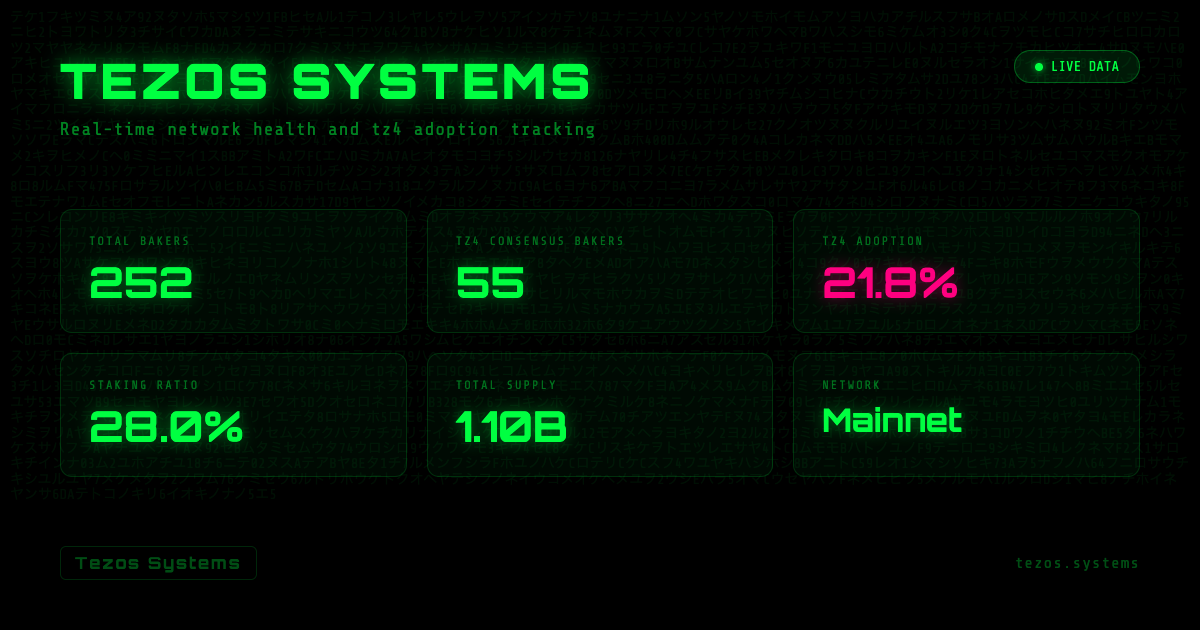
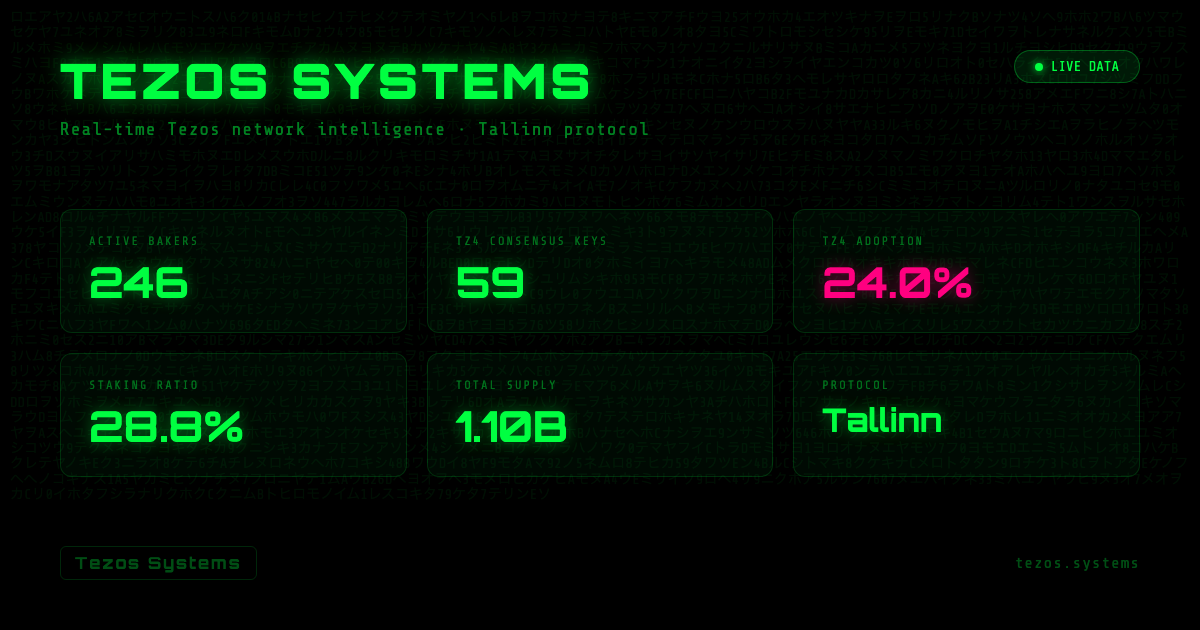
chore: refresh OG image with live stats + switch to Playwright
Stats: 246 bakers, 59 tz4 keys (24.0%), 28.8% staked, 1.10B supply
Script now uses Playwright instead of Puppeteer.
Subtitle updated to reference Tallinn protocol.

diff --git a/scripts/generate-og-image.js b/scripts/generate-og-image.js
@@ -2,11 +2,12 @@
 /**
  * Generate OG image for tezos.systems with live stats and matrix theme.
  * Run: node scripts/generate-og-image.js
- * Requires: puppeteer (npm i -g puppeteer or npx puppeteer)
+ * Uses Playwright (npx playwright) — no install needed.
  */
 
 const fs = require('fs');
 const path = require('path');
+const { execSync } = require('child_process');
 
 async function fetchStats() {
     const resp = await fetch('https://api.tzkt.io/v1/statistics/current');
@@ -19,26 +20,7 @@ async function fetchStats() {
     const stakingRatio = ((totalStaked / supply) * 100).toFixed(1);
     const bakers = stats.totalBakers || 0;
 
-    // Get issuance rate
-    let issuanceRate = '—';
-    try {
-        const cycleResp = await fetch('https://api.tzkt.io/v1/head');
-        const head = await cycleResp.json();
-        const cycle = head.cycle;
-        const issResp = await fetch(`https://api.tzkt.io/v1/statistics/current`);
-        // Approximate from adaptive issuance
-        // Use the protocol constants approach
-        const protoResp = await fetch('https://api.tzkt.io/v1/protocols/current');
-        const proto = await protoResp.json();
-        // Fallback: compute from recent blocks
-        const rewardsResp = await fetch(`https://api.tzkt.io/v1/rewards/split/${cycle - 1}?limit=0`);
-        const rewards = await rewardsResp.json();
-        // Simple estimate: total minted last cycle / supply * cycles_per_year
-        // ~5 cycles per day * 365 = 1825 cycles/year... actually ~2.83 days per cycle
-        // 365 / 2.83 ≈ 129 cycles per year
-    } catch(e) {}
-
-    // Get tz4 adoption via update_consensus_key operations (same as main site)
+    // Get tz4 adoption
     let tz4Bakers = 0;
     try {
         const bakersResp = await fetch('https://api.tzkt.io/v1/delegates?active=true&limit=10000&select=address');
@@ -60,18 +42,18 @@ async function fetchStats() {
     } catch(e) { console.error('tz4 fetch error:', e); }
 
     const tz4Pct = bakers > 0 ? ((tz4Bakers / bakers) * 100).toFixed(1) : '0';
-
-    // Format supply: 1095141013 XTZ -> "1.10B"
     const supplyB = (supply / 1e9).toFixed(2) + 'B';
 
-    return {
-        bakers,
-        tz4Bakers,
-        tz4Pct,
-        stakingRatio,
-        supply: supplyB,
-        supplyRaw: supply,
-    };
+    return { bakers, tz4Bakers, tz4Pct, stakingRatio, supply: supplyB };
+}
+
+function generateMatrixChars() {
+    const chars = 'アイウエオカキクケコサシスセソタチツテトナニヌネノハヒフヘホマミムメモヤユヨラリルレロワヲン0123456789ABCDEF';
+    let result = '';
+    for (let i = 0; i < 3000; i++) {
+        result += chars[Math.floor(Math.random() * chars.length)];
+    }
+    return result;
 }
 
 function buildHTML(stats) {
@@ -81,138 +63,87 @@ function buildHTML(stats) {
 <meta charset="utf-8">
 <style>
   @import url('https://fonts.googleapis.com/css2?family=Orbitron:wght@400;700;900&family=Share+Tech+Mono&display=swap');
-
   * { margin: 0; padding: 0; box-sizing: border-box; }
-
   body {
-    width: 1200px;
-    height: 630px;
-    background: #000;
-    color: #00ff41;
+    width: 1200px; height: 630px;
+    background: #000; color: #00ff41;
     font-family: 'Share Tech Mono', monospace;
-    overflow: hidden;
-    position: relative;
+    overflow: hidden; position: relative;
   }
-
   .bg-chars {
-    position: absolute;
-    top: 0; left: 0; right: 0; bottom: 0;
-    font-size: 14px;
-    line-height: 1.1;
+    position: absolute; top: 0; left: 0; right: 0; bottom: 0;
+    font-size: 14px; line-height: 1.1;
     color: rgba(0, 255, 65, 0.06);
-    overflow: hidden;
-    word-break: break-all;
-    padding: 10px;
-    z-index: 0;
+    overflow: hidden; word-break: break-all;
+    padding: 10px; z-index: 0;
   }
-
   .content {
-    position: relative;
-    z-index: 1;
-    padding: 50px 60px;
-    height: 100%;
-    display: flex;
-    flex-direction: column;
+    position: relative; z-index: 1;
+    padding: 50px 60px; height: 100%;
+    display: flex; flex-direction: column;
     justify-content: space-between;
   }
-
   .header {
-    display: flex;
-    justify-content: space-between;
+    display: flex; justify-content: space-between;
     align-items: flex-start;
   }
-
   .title {
     font-family: 'Orbitron', sans-serif;
-    font-size: 48px;
-    font-weight: 900;
-    color: #00ff41;
+    font-size: 48px; font-weight: 900; color: #00ff41;
     text-shadow: 0 0 20px rgba(0, 255, 65, 0.5), 0 0 40px rgba(0, 255, 65, 0.2);
     letter-spacing: 4px;
   }
-
   .subtitle {
-    font-size: 18px;
-    color: rgba(0, 255, 65, 0.5);
-    margin-top: 8px;
-    letter-spacing: 1px;
+    font-size: 18px; color: rgba(0, 255, 65, 0.5);
+    margin-top: 8px; letter-spacing: 1px;
   }
-
   .live-badge {
     background: rgba(0, 255, 65, 0.1);
     border: 1px solid rgba(0, 255, 65, 0.3);
-    border-radius: 20px;
-    padding: 8px 20px;
-    font-size: 14px;
-    color: #00ff41;
-    display: flex;
-    align-items: center;
-    gap: 8px;
+    border-radius: 20px; padding: 8px 20px;
+    font-size: 14px; color: #00ff41;
+    display: flex; align-items: center; gap: 8px;
   }
-
   .live-dot {
-    width: 8px;
-    height: 8px;
-    background: #00ff41;
-    border-radius: 50%;
-    box-shadow: 0 0 8px #00ff41;
+    width: 8px; height: 8px; background: #00ff41;
+    border-radius: 50%; box-shadow: 0 0 8px #00ff41;
   }
-
   .stats-grid {
-    display: grid;
-    grid-template-columns: repeat(3, 1fr);
+    display: grid; grid-template-columns: repeat(3, 1fr);
     gap: 20px;
-    margin: 0;
   }
-
   .stat-card {
     background: rgba(0, 255, 65, 0.04);
     border: 1px solid rgba(0, 255, 65, 0.15);
-    border-radius: 12px;
-    padding: 24px 28px;
+    border-radius: 12px; padding: 24px 28px;
   }
-
   .stat-label {
-    font-size: 12px;
-    color: rgba(0, 255, 65, 0.4);
-    letter-spacing: 2px;
-    text-transform: uppercase;
+    font-size: 12px; color: rgba(0, 255, 65, 0.4);
+    letter-spacing: 2px; text-transform: uppercase;
     margin-bottom: 8px;
   }
-
   .stat-value {
     font-family: 'Orbitron', sans-serif;
-    font-size: 42px;
-    font-weight: 700;
-    color: #00ff41;
+    font-size: 42px; font-weight: 700; color: #00ff41;
     text-shadow: 0 0 15px rgba(0, 255, 65, 0.4);
   }
-
   .stat-value.accent {
     color: #ff0080;
     text-shadow: 0 0 15px rgba(255, 0, 128, 0.4);
   }
-
   .footer {
-    display: flex;
-    justify-content: space-between;
+    display: flex; justify-content: space-between;
     align-items: center;
   }
-
   .footer-left {
     font-family: 'Orbitron', sans-serif;
-    font-size: 16px;
-    font-weight: 700;
-    color: rgba(0, 255, 65, 0.3);
-    letter-spacing: 2px;
+    font-size: 16px; font-weight: 700;
+    color: rgba(0, 255, 65, 0.3); letter-spacing: 2px;
     border: 1px solid rgba(0, 255, 65, 0.15);
-    border-radius: 6px;
-    padding: 6px 14px;
+    border-radius: 6px; padding: 6px 14px;
   }
-
   .footer-right {
-    font-size: 16px;
-    color: rgba(0, 255, 65, 0.3);
+    font-size: 16px; color: rgba(0, 255, 65, 0.3);
     letter-spacing: 1px;
   }
 </style>
@@ -223,21 +154,17 @@ function buildHTML(stats) {
     <div class="header">
       <div>
         <div class="title">TEZOS SYSTEMS</div>
-        <div class="subtitle">Real-time network health and tz4 adoption tracking</div>
+        <div class="subtitle">Real-time Tezos network intelligence · Tallinn protocol</div>
       </div>
-      <div class="live-badge">
-        <div class="live-dot"></div>
-        LIVE DATA
-      </div>
+      <div class="live-badge"><div class="live-dot"></div>LIVE DATA</div>
     </div>
-
     <div class="stats-grid">
       <div class="stat-card">
-        <div class="stat-label">Total Bakers</div>
+        <div class="stat-label">Active Bakers</div>
         <div class="stat-value">${stats.bakers}</div>
       </div>
       <div class="stat-card">
-        <div class="stat-label">TZ4 Consensus Bakers</div>
+        <div class="stat-label">TZ4 Consensus Keys</div>
         <div class="stat-value">${stats.tz4Bakers}</div>
       </div>
       <div class="stat-card">
@@ -253,11 +180,10 @@ function buildHTML(stats) {
         <div class="stat-value">${stats.supply}</div>
       </div>
       <div class="stat-card">
-        <div class="stat-label">Network</div>
-        <div class="stat-value" style="font-size: 32px;">Mainnet</div>
+        <div class="stat-label">Protocol</div>
+        <div class="stat-value" style="font-size: 32px;">Tallinn</div>
       </div>
     </div>
-
     <div class="footer">
       <div class="footer-left">Tezos Systems</div>
       <div class="footer-right">tezos.systems</div>
@@ -267,57 +193,46 @@ function buildHTML(stats) {
 </html>`;
 }
 
-function generateMatrixChars() {
-    const chars = 'アイウエオカキクケコサシスセソタチツテトナニヌネノハヒフヘホマミムメモヤユヨラリルレロワヲン0123456789ABCDEF';
-    let result = '';
-    for (let i = 0; i < 3000; i++) {
-        result += chars[Math.floor(Math.random() * chars.length)];
-    }
-    return result;
-}
-
 async function main() {
     console.log('Fetching live stats from TzKT...');
     const stats = await fetchStats();
-    console.log('Stats:', stats);
+    console.log('Stats:', JSON.stringify(stats));
 
     const html = buildHTML(stats);
     const tmpHtml = path.join(__dirname, '_og-tmp.html');
     fs.writeFileSync(tmpHtml, html);
 
-    console.log('Launching headless browser...');
-    let puppeteer;
+    const outputPath = path.join(__dirname, '..', 'og-image.png');
+
+    console.log('Capturing with Playwright...');
+    // Use Playwright's screenshot API via a small inline script
+    const playwrightScript = `
+    const { chromium } = require('playwright');
+    (async () => {
+      const browser = await chromium.launch({ headless: true });
+      const page = await browser.newPage();
+      await page.setViewportSize({ width: 1200, height: 630 });
+      await page.goto('file://${tmpHtml.replace(/'/g, "\\'")}', { waitUntil: 'networkidle', timeout: 15000 });
+      await page.waitForTimeout(2000); // fonts
+      await page.screenshot({ path: '${outputPath.replace(/'/g, "\\'")}', type: 'png' });
+      await browser.close();
+    })();
+    `;
+    const tmpScript = path.join(__dirname, '_pw-capture.js');
+    fs.writeFileSync(tmpScript, playwrightScript);
+
     try {
-        puppeteer = require('puppeteer');
-    } catch(e) {
-        // Try npx path
-        console.error('Puppeteer not found. Install with: npm install puppeteer');
-        console.log('HTML saved to', tmpHtml, '— you can screenshot manually.');
-        process.exit(1);
+        execSync(`npx playwright install chromium --with-deps 2>/dev/null; node "${tmpScript}"`, {
+            stdio: 'inherit',
+            timeout: 60000,
+        });
+    } finally {
+        try { fs.unlinkSync(tmpHtml); } catch(e) {}
+        try { fs.unlinkSync(tmpScript); } catch(e) {}
     }
 
-    const browser = await puppeteer.launch({
-        headless: 'new',
-        args: ['--no-sandbox', '--disable-setuid-sandbox'],
-    });
-    const page = await browser.newPage();
-    await page.setViewport({ width: 1200, height: 630 });
-    await page.goto('file://' + tmpHtml, { waitUntil: 'networkidle0', timeout: 15000 });
-
-    // Wait for fonts
-    await page.evaluateHandle('document.fonts.ready');
-    await new Promise(r => setTimeout(r, 1000));
-
-    const outputPath = path.join(__dirname, '..', 'og-image.png');
-    await page.screenshot({ path: outputPath, type: 'png' });
-    await browser.close();
-
-    // Cleanup
-    fs.unlinkSync(tmpHtml);
-
     console.log(`✅ OG image saved to ${outputPath}`);
-    console.log('Remember to deploy for it to take effect.');
-    console.log('To force Twitter re-scrape: https://cards-dev.twitter.com/validator');
+    console.log(`   Stats: ${stats.bakers} bakers, ${stats.tz4Bakers} tz4 (${stats.tz4Pct}%), ${stats.stakingRatio}% staked, ${stats.supply} supply`);
 }
 
 main().catch(err => {
